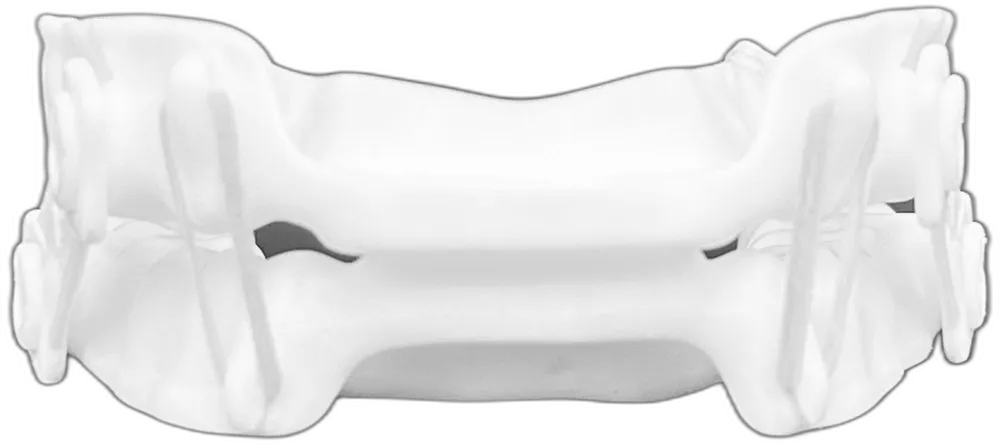
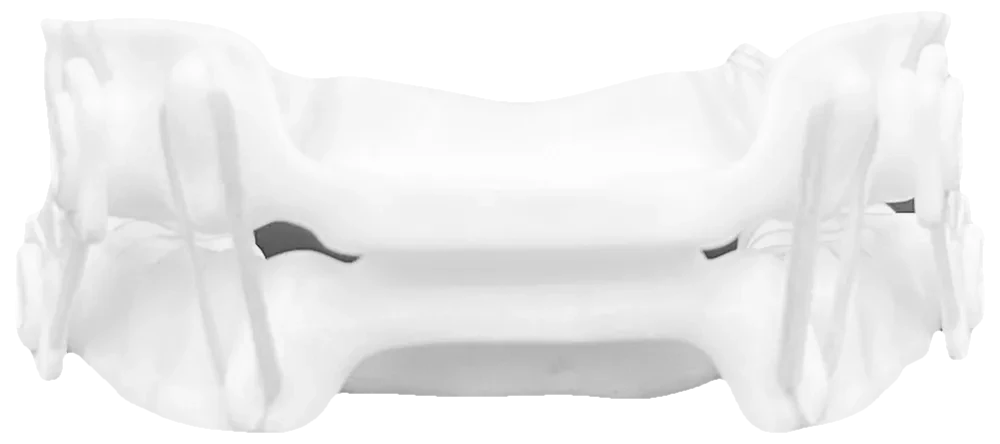
fix(marketing): clean up the appliance cut-out photos
Trims dark halos from eight cut-outs. Replaces four photos that trimming could
not fix with AI-assisted edits: ddso-post-overview, ddso-ant-overview, onp-rear
and onp-side. Drops the blue-band, black-background and duplicate photos from
the galleries. The Rx form now uses the intact OND photo.

ddso-post-iso still has its halo and needs an image edit.

diff --git a/apps/web/src/data/products.js b/apps/web/src/data/products.js
@@ -39,9 +39,8 @@ export const PRODUCTS = {
     images: [
       { src: "/images/ddso-post-overview.webp", label: "DDSO Posterior — Overview" },
       { src: "/images/ddso-post-iso.webp",      label: "DDSO Posterior — Isometric" },
-      { src: "/images/ddso-post-stacked.webp",  label: "DDSO Posterior — Stacked" },
       { src: "/images/ddso-post-interior.webp", label: "DDSO Posterior — Interior" },
-      { src: "/images/ddso-blue-bands.webp",    label: "DDSO Posterior — Blue Bands" },
+      { src: "/images/ddso-isometric.webp",     label: "DDSO Posterior — Blue Bands" },
       {
         is3D: true,
         modelPath: "/models/DDSO-Posterior.glb",
@@ -102,7 +101,6 @@ export const PRODUCTS = {
     categoryBg: "bg-brand-500/10",
     images: [
       { src: "/images/onp-front.webp",       label: "ONP — Front View" },
-      { src: "/images/onp-nylon.webp",       label: "ONP — Nylon" },
       { src: "/images/onp-nylon4.webp",      label: "ONP — Nylon Detail" },
       { src: "/images/onp-bioflex-new.webp", label: "ONP — Bioflex" },
       { src: "/images/onp-model.webp",       label: "ONP — On Model" },

diff --git a/apps/web/src/pages/marketing/Sleep.jsx b/apps/web/src/pages/marketing/Sleep.jsx
@@ -145,7 +145,7 @@ export function SleepPage() {
         intro="All DDSO devices are Rx-only. Approved doctors send scans and Rx details through the Rx form in the account portal."
         primary={{ label: "Submit Digital Rx", to: "/submit-case" }}
         secondary={{ label: "Talk to the lab", to: "/contact" }}
-        product="/images/ddso-post-stacked.webp"
+        product="/images/ddso-post-overview.webp"
         productAlt="DDSO Posterior sleep appliance, upper and lower trays"
       />
     </>

diff --git a/apps/web/src/pages/marketing/Downloads.jsx b/apps/web/src/pages/marketing/Downloads.jsx
@@ -31,8 +31,8 @@ export function DownloadsPage() {
         title="Downloads"
         titleAccent="to keep on hand."
         intro="Instructions, brochures and publications from Diamond Orthotic Laboratory."
-        product="/images/ddso-post-stacked.webp"
-        productAlt="Two DDSO sleep appliances stacked"
+        product="/images/ddso-post-overview.webp"
+        productAlt="A DDSO sleep appliance with blue bands"
       />
 
       <Reveal className="section-pad py-16 md:py-24">

diff --git a/apps/web/src/pages/marketing/DrOlmos.jsx b/apps/web/src/pages/marketing/DrOlmos.jsx
@@ -166,7 +166,7 @@ export function DrOlmosPage() {
         intro="Dr. Olmos directs the courses for dentists. The certified labs fabricate Olmos Series appliances."
         primary={{ label: "Courses", to: "/resources/courses" }}
         secondary={{ label: "Certified labs", to: "/resources/certified-labs" }}
-        product="/images/ddso-blue-bands.webp"
+        product="/images/ddso-post-iso.webp"
         productAlt="A DDSO appliance with blue bands"
       />
     </>

diff --git a/apps/web/src/data/rx-devices.js b/apps/web/src/data/rx-devices.js
@@ -533,7 +533,7 @@ export const RX_DEVICES = [
     name: "ON — Olmos Night",
     fullName: "Olmos Night Orthotic",
     category: "tmd",
-    image: "/images/ond-overview.webp",
+    image: "/images/ond-nylon.webp",
     tagline: "Worn supine · built for the airway. ON-D decompressor & ON-P positioner variants.",
     options: OLMOS_NIGHT_OPTIONS,
   },
